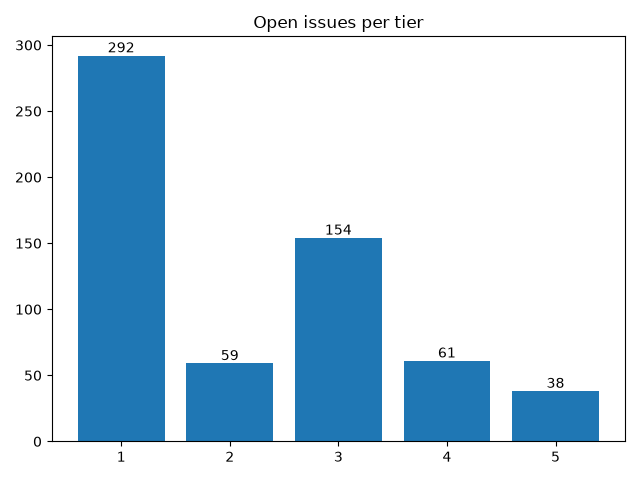
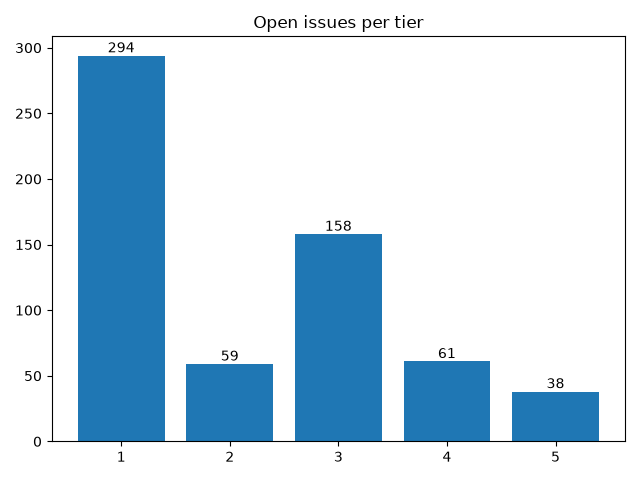
Apply automatic changes

diff --git a/docs/analytics.html b/docs/analytics.html
@@ -114,7 +114,7 @@ td .material-icons { display:inline-flex; vertical-align: top; font-size:1.1rem;
 						</tr>
 						<tr>
 							<td>Oct</td>
-							<td>2</td>
+							<td>8</td>
 							<td>2</td>
 						</tr>
 					</table>
@@ -135,7 +135,7 @@ td .material-icons { display:inline-flex; vertical-align: top; font-size:1.1rem;
 							<td>
 								<a href="http://github.com/notofonts/latin-greek-cyrillic/issues">latin-greek-cyrillic</a>
 							</td>
-							<td>158</td>
+							<td>160</td>
 						</tr>
 						<tr>
 							<td>
@@ -171,7 +171,7 @@ td .material-icons { display:inline-flex; vertical-align: top; font-size:1.1rem;
 							<td>
 								<a href="http://github.com/notofonts/math/issues">math</a>
 							</td>
-							<td>17</td>
+							<td>18</td>
 						</tr>
 						<tr>
 							<td>
@@ -206,25 +206,25 @@ td .material-icons { display:inline-flex; vertical-align: top; font-size:1.1rem;
 				<tr>
 					<td>1</td>
 					<td>
-						<a href="http://github.com/notofonts/anatolian-hieroglyphs/issues">anatolian-hieroglyphs</a>,  						<a href="http://github.com/notofonts/chorasmian/issues">chorasmian</a>,  						<a href="http://github.com/notofonts/cuneiform/issues">cuneiform</a>,  						<a href="http://github.com/notofonts/elbasan/issues">elbasan</a>,  						<a href="http://github.com/notofonts/glagolitic/issues">glagolitic</a>,  						<a href="http://github.com/notofonts/gunjala-gondi/issues">gunjala-gondi</a>,  						<a href="http://github.com/notofonts/hanunoo/issues">hanunoo</a>,  						<a href="http://github.com/notofonts/inscriptional-pahlavi/issues">inscriptional-pahlavi</a>,  						<a href="http://github.com/notofonts/kharoshthi/issues">kharoshthi</a>,  						<a href="http://github.com/notofonts/khitan-small-script/issues">khitan-small-script</a>,  						<a href="http://github.com/notofonts/khudawadi/issues">khudawadi</a>,  						<a href="http://github.com/notofonts/masaram-gondi/issues">masaram-gondi</a>,  						<a href="http://github.com/notofonts/meetei-mayek/issues">meetei-mayek</a>,  						<a href="http://github.com/notofonts/miao/issues">miao</a>,  						<a href="http://github.com/notofonts/mongolian/issues">mongolian</a>,  						<a href="http://github.com/notofonts/nag-mundari/issues">nag-mundari</a>,  						<a href="http://github.com/notofonts/nko/issues">nko</a>,  						<a href="http://github.com/notofonts/nushu/issues">nushu</a>,  						<a href="http://github.com/notofonts/old-italic/issues">old-italic</a>,  						<a href="http://github.com/notofonts/old-turkic/issues">old-turkic</a>,  						<a href="http://github.com/notofonts/old-uyghur/issues">old-uyghur</a>,  						<a href="http://github.com/notofonts/osmanya/issues">osmanya</a>,  						<a href="http://github.com/notofonts/phags-pa/issues">phags-pa</a>,  						<a href="http://github.com/notofonts/psalter-pahlavi/issues">psalter-pahlavi</a>,  						<a href="http://github.com/notofonts/rejang/issues">rejang</a>,  						<a href="http://github.com/notofonts/runic/issues">runic</a>,  						<a href="http://github.com/notofonts/saurashtra/issues">saurashtra</a>,  						<a href="http://github.com/notofonts/sinhala/issues">sinhala</a>,  						<a href="http://github.com/notofonts/sogdian/issues">sogdian</a>,  						<a href="http://github.com/notofonts/tai-tham/issues">tai-tham</a>,  						<a href="http://github.com/notofonts/tai-viet/issues">tai-viet</a>,  						<a href="http://github.com/notofonts/takri/issues">takri</a>,  						<a href="http://github.com/notofonts/tangsa/issues">tangsa</a>,  						<a href="http://github.com/notofonts/vai/issues">vai</a> 
+						<a href="http://github.com/notofonts/anatolian-hieroglyphs/issues">anatolian-hieroglyphs</a>,  						<a href="http://github.com/notofonts/chorasmian/issues">chorasmian</a>,  						<a href="http://github.com/notofonts/cuneiform/issues">cuneiform</a>,  						<a href="http://github.com/notofonts/elbasan/issues">elbasan</a>,  						<a href="http://github.com/notofonts/glagolitic/issues">glagolitic</a>,  						<a href="http://github.com/notofonts/gunjala-gondi/issues">gunjala-gondi</a>,  						<a href="http://github.com/notofonts/hanunoo/issues">hanunoo</a>,  						<a href="http://github.com/notofonts/inscriptional-pahlavi/issues">inscriptional-pahlavi</a>,  						<a href="http://github.com/notofonts/kharoshthi/issues">kharoshthi</a>,  						<a href="http://github.com/notofonts/khitan-small-script/issues">khitan-small-script</a>,  						<a href="http://github.com/notofonts/khudawadi/issues">khudawadi</a>,  						<a href="http://github.com/notofonts/masaram-gondi/issues">masaram-gondi</a>,  						<a href="http://github.com/notofonts/meetei-mayek/issues">meetei-mayek</a>,  						<a href="http://github.com/notofonts/miao/issues">miao</a>,  						<a href="http://github.com/notofonts/nag-mundari/issues">nag-mundari</a>,  						<a href="http://github.com/notofonts/nko/issues">nko</a>,  						<a href="http://github.com/notofonts/nushu/issues">nushu</a>,  						<a href="http://github.com/notofonts/old-italic/issues">old-italic</a>,  						<a href="http://github.com/notofonts/old-turkic/issues">old-turkic</a>,  						<a href="http://github.com/notofonts/old-uyghur/issues">old-uyghur</a>,  						<a href="http://github.com/notofonts/osmanya/issues">osmanya</a>,  						<a href="http://github.com/notofonts/phags-pa/issues">phags-pa</a>,  						<a href="http://github.com/notofonts/psalter-pahlavi/issues">psalter-pahlavi</a>,  						<a href="http://github.com/notofonts/rejang/issues">rejang</a>,  						<a href="http://github.com/notofonts/runic/issues">runic</a>,  						<a href="http://github.com/notofonts/saurashtra/issues">saurashtra</a>,  						<a href="http://github.com/notofonts/sinhala/issues">sinhala</a>,  						<a href="http://github.com/notofonts/sogdian/issues">sogdian</a>,  						<a href="http://github.com/notofonts/tai-tham/issues">tai-tham</a>,  						<a href="http://github.com/notofonts/tai-viet/issues">tai-viet</a>,  						<a href="http://github.com/notofonts/takri/issues">takri</a>,  						<a href="http://github.com/notofonts/tangsa/issues">tangsa</a>,  						<a href="http://github.com/notofonts/vai/issues">vai</a> 
 					</td>
 				</tr>
 				<tr>
 					<td>2</td>
 					<td>
-						<a href="http://github.com/notofonts/armenian/issues">armenian</a>,  						<a href="http://github.com/notofonts/chakma/issues">chakma</a>,  						<a href="http://github.com/notofonts/dogra/issues">dogra</a>,  						<a href="http://github.com/notofonts/duployan/issues">duployan</a>,  						<a href="http://github.com/notofonts/khojki/issues">khojki</a>,  						<a href="http://github.com/notofonts/lao/issues">lao</a>,  						<a href="http://github.com/notofonts/limbu/issues">limbu</a>,  						<a href="http://github.com/notofonts/mandaic/issues">mandaic</a>,  						<a href="http://github.com/notofonts/music/issues">music</a>,  						<a href="http://github.com/notofonts/old-hungarian-ui/issues">old-hungarian-ui</a>,  						<a href="http://github.com/notofonts/pau-cin-hau/issues">pau-cin-hau</a>,  						<a href="http://github.com/notofonts/tagalog/issues">tagalog</a>,  						<a href="http://github.com/notofonts/tamil/issues">tamil</a>,  						<a href="http://github.com/notofonts/yi/issues">yi</a> 
+						<a href="http://github.com/notofonts/armenian/issues">armenian</a>,  						<a href="http://github.com/notofonts/chakma/issues">chakma</a>,  						<a href="http://github.com/notofonts/dogra/issues">dogra</a>,  						<a href="http://github.com/notofonts/duployan/issues">duployan</a>,  						<a href="http://github.com/notofonts/khojki/issues">khojki</a>,  						<a href="http://github.com/notofonts/lao/issues">lao</a>,  						<a href="http://github.com/notofonts/limbu/issues">limbu</a>,  						<a href="http://github.com/notofonts/mandaic/issues">mandaic</a>,  						<a href="http://github.com/notofonts/mongolian/issues">mongolian</a>,  						<a href="http://github.com/notofonts/old-hungarian-ui/issues">old-hungarian-ui</a>,  						<a href="http://github.com/notofonts/pau-cin-hau/issues">pau-cin-hau</a>,  						<a href="http://github.com/notofonts/tagalog/issues">tagalog</a>,  						<a href="http://github.com/notofonts/tamil/issues">tamil</a>,  						<a href="http://github.com/notofonts/yi/issues">yi</a> 
 					</td>
 				</tr>
 				<tr>
 					<td>3</td>
 					<td>
-						<a href="http://github.com/notofonts/ethiopic/issues">ethiopic</a>,  						<a href="http://github.com/notofonts/georgian/issues">georgian</a>,  						<a href="http://github.com/notofonts/inscriptional-parthian/issues">inscriptional-parthian</a>,  						<a href="http://github.com/notofonts/kaithi/issues">kaithi</a>,  						<a href="http://github.com/notofonts/manichaean/issues">manichaean</a>,  						<a href="http://github.com/notofonts/oriya/issues">oriya</a>,  						<a href="http://github.com/notofonts/tifinagh/issues">tifinagh</a>,  						<a href="http://github.com/notofonts/znamenny/issues">znamenny</a> 
+						<a href="http://github.com/notofonts/ethiopic/issues">ethiopic</a>,  						<a href="http://github.com/notofonts/georgian/issues">georgian</a>,  						<a href="http://github.com/notofonts/inscriptional-parthian/issues">inscriptional-parthian</a>,  						<a href="http://github.com/notofonts/kaithi/issues">kaithi</a>,  						<a href="http://github.com/notofonts/manichaean/issues">manichaean</a>,  						<a href="http://github.com/notofonts/music/issues">music</a>,  						<a href="http://github.com/notofonts/oriya/issues">oriya</a>,  						<a href="http://github.com/notofonts/znamenny/issues">znamenny</a> 
 					</td>
 				</tr>
 				<tr>
 					<td>4</td>
 					<td>
-						<a href="http://github.com/notofonts/adlam/issues">adlam</a>,  						<a href="http://github.com/notofonts/balinese/issues">balinese</a>,  						<a href="http://github.com/notofonts/batak/issues">batak</a>,  						<a href="http://github.com/notofonts/brahmi/issues">brahmi</a>,  						<a href="http://github.com/notofonts/coptic/issues">coptic</a>,  						<a href="http://github.com/notofonts/khmer/issues">khmer</a>,  						<a href="http://github.com/notofonts/siddham/issues">siddham</a>,  						<a href="http://github.com/notofonts/soyombo/issues">soyombo</a>,  						<a href="http://github.com/notofonts/sundanese/issues">sundanese</a>,  						<a href="http://github.com/notofonts/telugu/issues">telugu</a>,  						<a href="http://github.com/notofonts/thaana/issues">thaana</a> 
+						<a href="http://github.com/notofonts/adlam/issues">adlam</a>,  						<a href="http://github.com/notofonts/balinese/issues">balinese</a>,  						<a href="http://github.com/notofonts/batak/issues">batak</a>,  						<a href="http://github.com/notofonts/brahmi/issues">brahmi</a>,  						<a href="http://github.com/notofonts/coptic/issues">coptic</a>,  						<a href="http://github.com/notofonts/khmer/issues">khmer</a>,  						<a href="http://github.com/notofonts/siddham/issues">siddham</a>,  						<a href="http://github.com/notofonts/soyombo/issues">soyombo</a>,  						<a href="http://github.com/notofonts/sundanese/issues">sundanese</a>,  						<a href="http://github.com/notofonts/telugu/issues">telugu</a>,  						<a href="http://github.com/notofonts/thaana/issues">thaana</a>,  						<a href="http://github.com/notofonts/tifinagh/issues">tifinagh</a> 
 					</td>
 				</tr>
 				<tr>
@@ -275,7 +275,7 @@ td .material-icons { display:inline-flex; vertical-align: top; font-size:1.1rem;
 						<tr>
 							<td>1</td>
 							<td>
-									<a href="http://github.com/notofonts/latin-greek-cyrillic/issues">latin-greek-cyrillic</a>: 158, 
+									<a href="http://github.com/notofonts/latin-greek-cyrillic/issues">latin-greek-cyrillic</a>: 160, 
 
 									<a href="http://github.com/notofonts/nastaliq/issues">nastaliq</a>: 31, 
 
@@ -331,7 +331,7 @@ td .material-icons { display:inline-flex; vertical-align: top; font-size:1.1rem;
 							<td>
 									<a href="http://github.com/notofonts/symbols/issues">symbols</a>: 19, 
 
-									<a href="http://github.com/notofonts/math/issues">math</a>: 17, 
+									<a href="http://github.com/notofonts/math/issues">math</a>: 18, 
 
 									<a href="http://github.com/notofonts/syriac/issues">syriac</a>: 9, 
 
@@ -363,7 +363,9 @@ td .material-icons { display:inline-flex; vertical-align: top; font-size:1.1rem;
 
 									<a href="http://github.com/notofonts/thaana/issues">thaana</a>: 4, 
 
-									<a href="http://github.com/notofonts/tifinagh/issues">tifinagh</a>: 3, 
+									<a href="http://github.com/notofonts/tifinagh/issues">tifinagh</a>: 4, 
+
+									<a href="http://github.com/notofonts/music/issues">music</a>: 3, 
 
 									<a href="http://github.com/notofonts/chakma/issues">chakma</a>: 2, 
 
@@ -373,7 +375,7 @@ td .material-icons { display:inline-flex; vertical-align: top; font-size:1.1rem;
 
 									<a href="http://github.com/notofonts/lao/issues">lao</a>: 2, 
 
-									<a href="http://github.com/notofonts/music/issues">music</a>: 2, 
+									<a href="http://github.com/notofonts/mongolian/issues">mongolian</a>: 2, 
 
 									<a href="http://github.com/notofonts/pau-cin-hau/issues">pau-cin-hau</a>: 2, 
 
@@ -390,8 +392,6 @@ td .material-icons { display:inline-flex; vertical-align: top; font-size:1.1rem;
 									<a href="http://github.com/notofonts/meetei-mayek/issues">meetei-mayek</a>: 1, 
 
 									<a href="http://github.com/notofonts/miao/issues">miao</a>: 1, 
-
-									<a href="http://github.com/notofonts/mongolian/issues">mongolian</a>: 1, 
 
 									<a href="http://github.com/notofonts/nag-mundari/issues">nag-mundari</a>: 1, 
 
